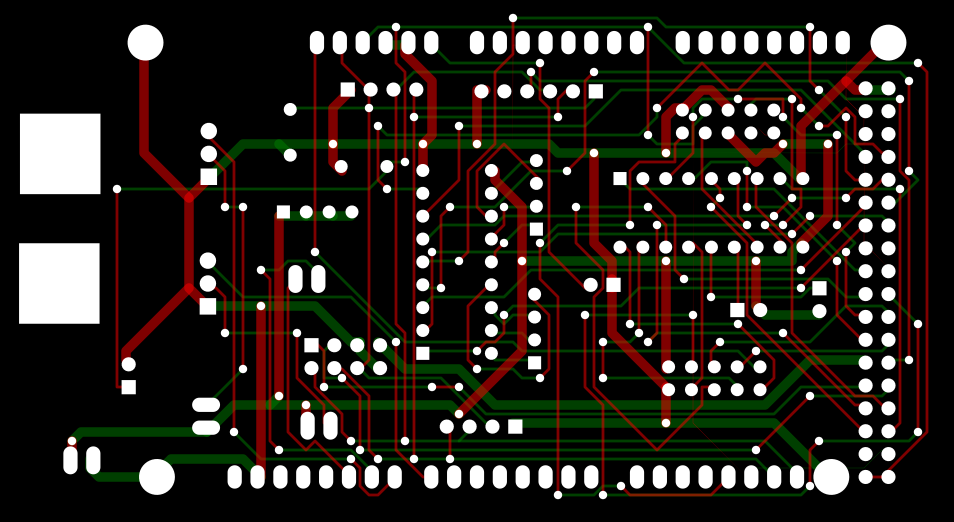
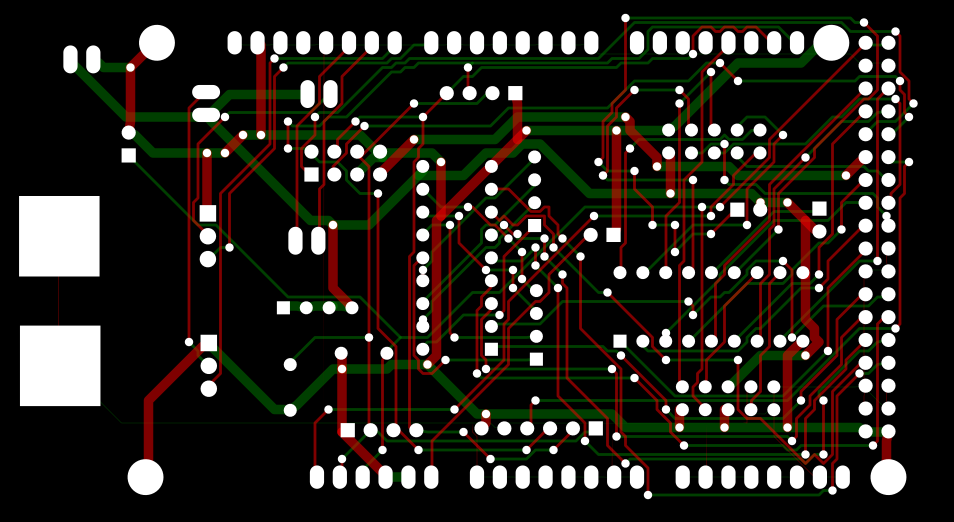
Update with some Go version features

diff --git a/router.py b/router.py
@@ -15,22 +15,8 @@ def shift(l, n):
 	l.extend(head)
 	return l
 
-def optimise_paths(paths):
-	opt_paths = []
-	for path in paths:
-		opt_path = []
-		d = (0, 0, 0)
-		for a, b in izip(path, islice(path, 1, None)):
-			d1 = norm_3d(sub_3d(b, a))
-			if d1 != d:
-				opt_path.append(a)
-				d = d1
-		opt_path.append(path[-1])
-		opt_paths.append(opt_path)
-	return opt_paths
-
 class Pcb():
-	def __init__(self, dimensions, routing_flood_vectors, routing_path_vectors, dfunc, resolution, verbosity):
+	def __init__(self, dimensions, routing_flood_vectors, routing_path_vectors, dfunc, resolution, verbosity, minz):
 		self.dfunc = dfunc
 		self.verbosity = verbosity
 		self.routing_flood_vectors = routing_flood_vectors
@@ -38,11 +24,18 @@ class Pcb():
 		self.layers = Layers(dimensions, 1.0 / resolution)
 		self.width, self.height, self.depth = dimensions
 		self.resolution = resolution
+		self.minz = minz
 		self.width *= resolution
 		self.height *= resolution
 		self.stride = self.width * self.height
 		self.nodes = array('i', [0 for x in xrange(self.stride * self.depth)])
 		self.netlist = []
+		self.deform = {}
+
+	def grid_to_space_point(self, node):
+		if node in self.deform:
+			return self.deform[node]
+		return (float(node[0]), float(node[1]), float(node[2]))
 
 	def set_node(self, node, value):
 		self.nodes[(self.stride * node[2]) + (node[1] * self.width) + node[0]] = value
@@ -69,7 +62,8 @@ class Pcb():
 
 	def all_nearer_sorted(self, vectors, node, goal, func):
 		distance = self.get_node(node)
-		nodes = [(func(marked[1], goal), marked[1]) \
+		sgoal = self.grid_to_space_point(goal)
+		nodes = [(func(self.grid_to_space_point(marked[1]), sgoal), marked[1]) \
 					for marked in self.all_marked(vectors, node) \
 					if (distance - marked[0]) > 0]
 		nodes.sort()
@@ -77,12 +71,14 @@ class Pcb():
 			yield node[1]
 
 	def all_not_shorting(self, gather, params, node, radius, via, gap):
+		np = self.grid_to_space_point(node)
 		for new_node in gather(*params):
+			nnp = self.grid_to_space_point(new_node)
 			if node[2] != new_node[2]:
-				if not self.layers.hit_line(node, new_node, via, gap):
+				if not self.layers.hit_line(np, nnp, via, gap):
 					yield new_node
 			else:
-				if not self.layers.hit_line(node, new_node, radius, gap):
+				if not self.layers.hit_line(np, nnp, radius, gap):
 					yield new_node
 
 	def mark_distances(self, vectors, radius, via, gap, starts, ends = []):
@@ -115,26 +111,17 @@ class Pcb():
 		self.netlist.sort(key = lambda i: i.radius, reverse = True)
 		index = 0
 		while index < len(self.netlist):
-			if self.netlist[index].route():
+			if self.netlist[index].route(self.minz):
 				index += 1
 			else:
-				while True:
-					self.netlist[index].reset_topology()
-					if index == 0:
-						self.shuffle_netlist()
-						break
-					else:
-						index -= 1
+				if index == 0:
+					self.shuffle_netlist()
+				else:
+					self.netlist.insert(0, self.netlist.pop(index))
+					while index != 0:
 						self.netlist[index].remove()
-						if self.netlist[index].next_topology():
-							break
-						else:
-							self.netlist.insert(0, self.netlist.pop(index + 1))
-							while index != 0:
-								self.netlist[index].remove()
-								self.netlist[index].reset_topology()
-								index -= 1
-							break
+						self.netlist[index].shuffle_topology()
+						index -= 1
 			if time.time() - now > timeout:
 				return False
 			if self.verbosity >= 1:
@@ -165,6 +152,20 @@ class Pcb():
 		print [self.width * scale, self.height * scale, self.depth]
 		sys.stdout.flush()
 
+	def print_stats(self):
+		num_vias = 0
+		num_terminals = 0
+		num_nets = len(self.netlist)
+		for net in self.netlist:
+			num_terminals += len(net.terminals)
+			for path in net.paths:
+				for a, b in izip(path, islice(path, 1, None)):
+					if a[2] != b[2]:
+						num_vias += 1
+		print >> sys.stderr, "Number of Terminals:", num_terminals
+		print >> sys.stderr, "Number of Nets:", num_nets
+		print >> sys.stderr, "Number of Vias:", num_vias
+
 class Net():
 	def __init__(self, terminals, radius, via, gap, pcb):
 		self.pcb = pcb
@@ -175,21 +176,27 @@ class Net():
 		self.radius = radius * pcb.resolution
 		self.via = via * pcb.resolution
 		self.gap = gap * pcb.resolution
-		self.shift = 0
 		self.paths = []
 		self.remove()
+		for term in self.terminals:
+			for z in xrange(pcb.depth):
+				pcb.deform[(int(term[2][0] + 0.5), int(term[2][1] + 0.5), z)] = (term[2][0], term[2][1], float(z))
 
-	def next_topology(self):
-		self.shift += 1
-		shift(self.terminals, 1)
-		if self.shift == len(self.terminals):
-			self.shift = 0
-			return False
-		return True
-
-	def reset_topology(self):
-		shift(self.terminals, -self.shift)
-		self.shift = 0
+	def optimise_paths(self, paths):
+		opt_paths = []
+		for path in paths:
+			opt_path = []
+			d = (0, 0, 0)
+			for a, b in izip(path, islice(path, 1, None)):
+				p0 = self.pcb.grid_to_space_point(a)
+				p1 = self.pcb.grid_to_space_point(b)
+				d1 = norm_3d(sub_3d(p1, p0))
+				if d1 != d:
+					opt_path.append(a)
+					d = d1
+			opt_path.append(path[-1])
+			opt_paths.append(opt_path)
+		return opt_paths
 
 	def shuffle_topology(self):
 		shuffle(self.terminals)
@@ -197,18 +204,22 @@ class Net():
 	def add_paths_collision_lines(self):
 		for path in self.paths:
 			for a, b in izip(path, islice(path, 1, None)):
+				p0 = self.pcb.grid_to_space_point(a)
+				p1 = self.pcb.grid_to_space_point(b)
 				if a[2] != b[2]:
-					self.pcb.layers.add_line(a, b, self.via, self.gap)
+					self.pcb.layers.add_line(p0, p1, self.via, self.gap)
 				else:
-					self.pcb.layers.add_line(a, b, self.radius, self.gap)
+					self.pcb.layers.add_line(p0, p1, self.radius, self.gap)
 
 	def sub_paths_collision_lines(self):
 		for path in self.paths:
 			for a, b in izip(path, islice(path, 1, None)):
+				p0 = self.pcb.grid_to_space_point(a)
+				p1 = self.pcb.grid_to_space_point(b)
 				if a[2] != b[2]:
-					self.pcb.layers.sub_line(a, b, self.via, self.gap)
+					self.pcb.layers.sub_line(p0, p1, self.via, self.gap)
 				else:
-					self.pcb.layers.sub_line(a, b, self.radius, self.gap)
+					self.pcb.layers.sub_line(p0, p1, self.radius, self.gap)
 
 	def add_terminal_collision_lines(self):
 		for node in self.terminals:
@@ -236,7 +247,7 @@ class Net():
 		self.paths = []
 		self.add_terminal_collision_lines()
 
-	def route(self):
+	def route(self, minz):
 		try:
 			self.paths = []
 			self.sub_terminal_collision_lines()
@@ -249,24 +260,20 @@ class Net():
 				ends.sort()
 				_, end = ends[0]
 				path = [end]
-				dv = (0, 0, 0)
 				while path[-1] not in visited:
 					nearer_nodes = self.pcb.all_not_shorting(self.pcb.all_nearer_sorted, \
 								(self.pcb.routing_path_vectors, path[-1], end, self.pcb.dfunc), path[-1], self.radius, self.via, self.gap)
 					next_node = next(nearer_nodes)
-					if next_node not in visited:
+					if minz:
 						for node in nearer_nodes:
-							if node in visited:
+							if node[2] == path[-1][2]:
 								next_node = node
 								break
-							if dv == norm_3d(sub_3d(node, path[-1])):
-								next_node = node
-					dv = norm_3d(sub_3d(next_node, path[-1]))
 					path.append(next_node)
 				visited |= set(path)
 				self.paths.append(path)
 				self.pcb.unmark_distances()
-			self.paths = optimise_paths(self.paths)
+			self.paths = self.optimise_paths(self.paths)
 			self.add_paths_collision_lines()
 			self.add_terminal_collision_lines()
 			return True
@@ -277,7 +284,13 @@ class Net():
 
 	def print_net(self):
 		scale = 1.0 / self.pcb.resolution
+		spaths = []
+		for path in self.paths:
+			spath = []
+			for node in path:
+				spath += [self.pcb.grid_to_space_point(node)]
+			spaths += [spath]
 		print [self.radius * scale, self.via * scale, self.gap * scale, \
 				[(r * scale, g * scale, (x * scale, y * scale, z), \
 				[(cx * scale, cy * scale) for cx, cy in s]) for r, g, (x, y, z), s in self.terminals], \
-				[[(x * scale, y * scale, z) for x, y, z in path] for path in self.paths]]
+				[[(x * scale, y * scale, z) for x, y, z in spath] for spath in spaths]]

diff --git a/pcb.py b/pcb.py
@@ -14,6 +14,7 @@ def main():
 	parser.add_argument('--v', nargs = 1, type = int, default = [0], choices = range(0, 2), help = 'verbosity level 0..1, default 0')
 	parser.add_argument('--s', nargs = 1, type = int, default = [1], help = 'number of samples, default 1')
 	parser.add_argument('--r', nargs = 1, type = int, default = [1], choices = range(1, 5), help = 'grid resolution 1..4, default 1')
+	parser.add_argument('--z', nargs = 1, type = int, default = [0], choices = range(0, 2), help = 'minimize vias 0..1, default 0')
 	parser.add_argument('--d', nargs = 1, type = int, default = [0], choices = range(0, 6), \
 			help = 'distance metric 0..5, default 0.\n' \
 					 '0 -> manhattan\n1 -> squared_euclidean\n2 -> euclidean\n3 -> chebyshev\n4 -> reciprocal\n5 -> random')
@@ -43,7 +44,7 @@ def main():
 				chebyshev_distance, reciprical_distance, random_distance][args.d[0]]
 
 	dimensions = literal_eval(args.infile.readline().strip())
-	pcb = router.Pcb(dimensions, routing_flood_vectors, routing_path_vectors, dfunc, args.r[0], args.v[0])
+	pcb = router.Pcb(dimensions, routing_flood_vectors, routing_path_vectors, dfunc, args.r[0], args.v[0], args.z[0])
 	for line in args.infile:
 		track = literal_eval(line.strip())
 		if not track:
@@ -65,6 +66,7 @@ def main():
 		pcb.shuffle_netlist()
 	if best_pcb != None:
 		best_pcb.print_netlist()
+		best_pcb.print_stats()
 	else:
 		print []
 

diff --git a/layer.py b/layer.py
@@ -85,7 +85,7 @@ class Layers():
 			for z in xrange(self.depth):
 				yield self.layers[z]
 		else:
-			yield self.layers[z1]
+			yield self.layers[int(z1)]
 
 	def add_line(self, p1, p2, r, g):
 		x1, y1, z1 = p1
